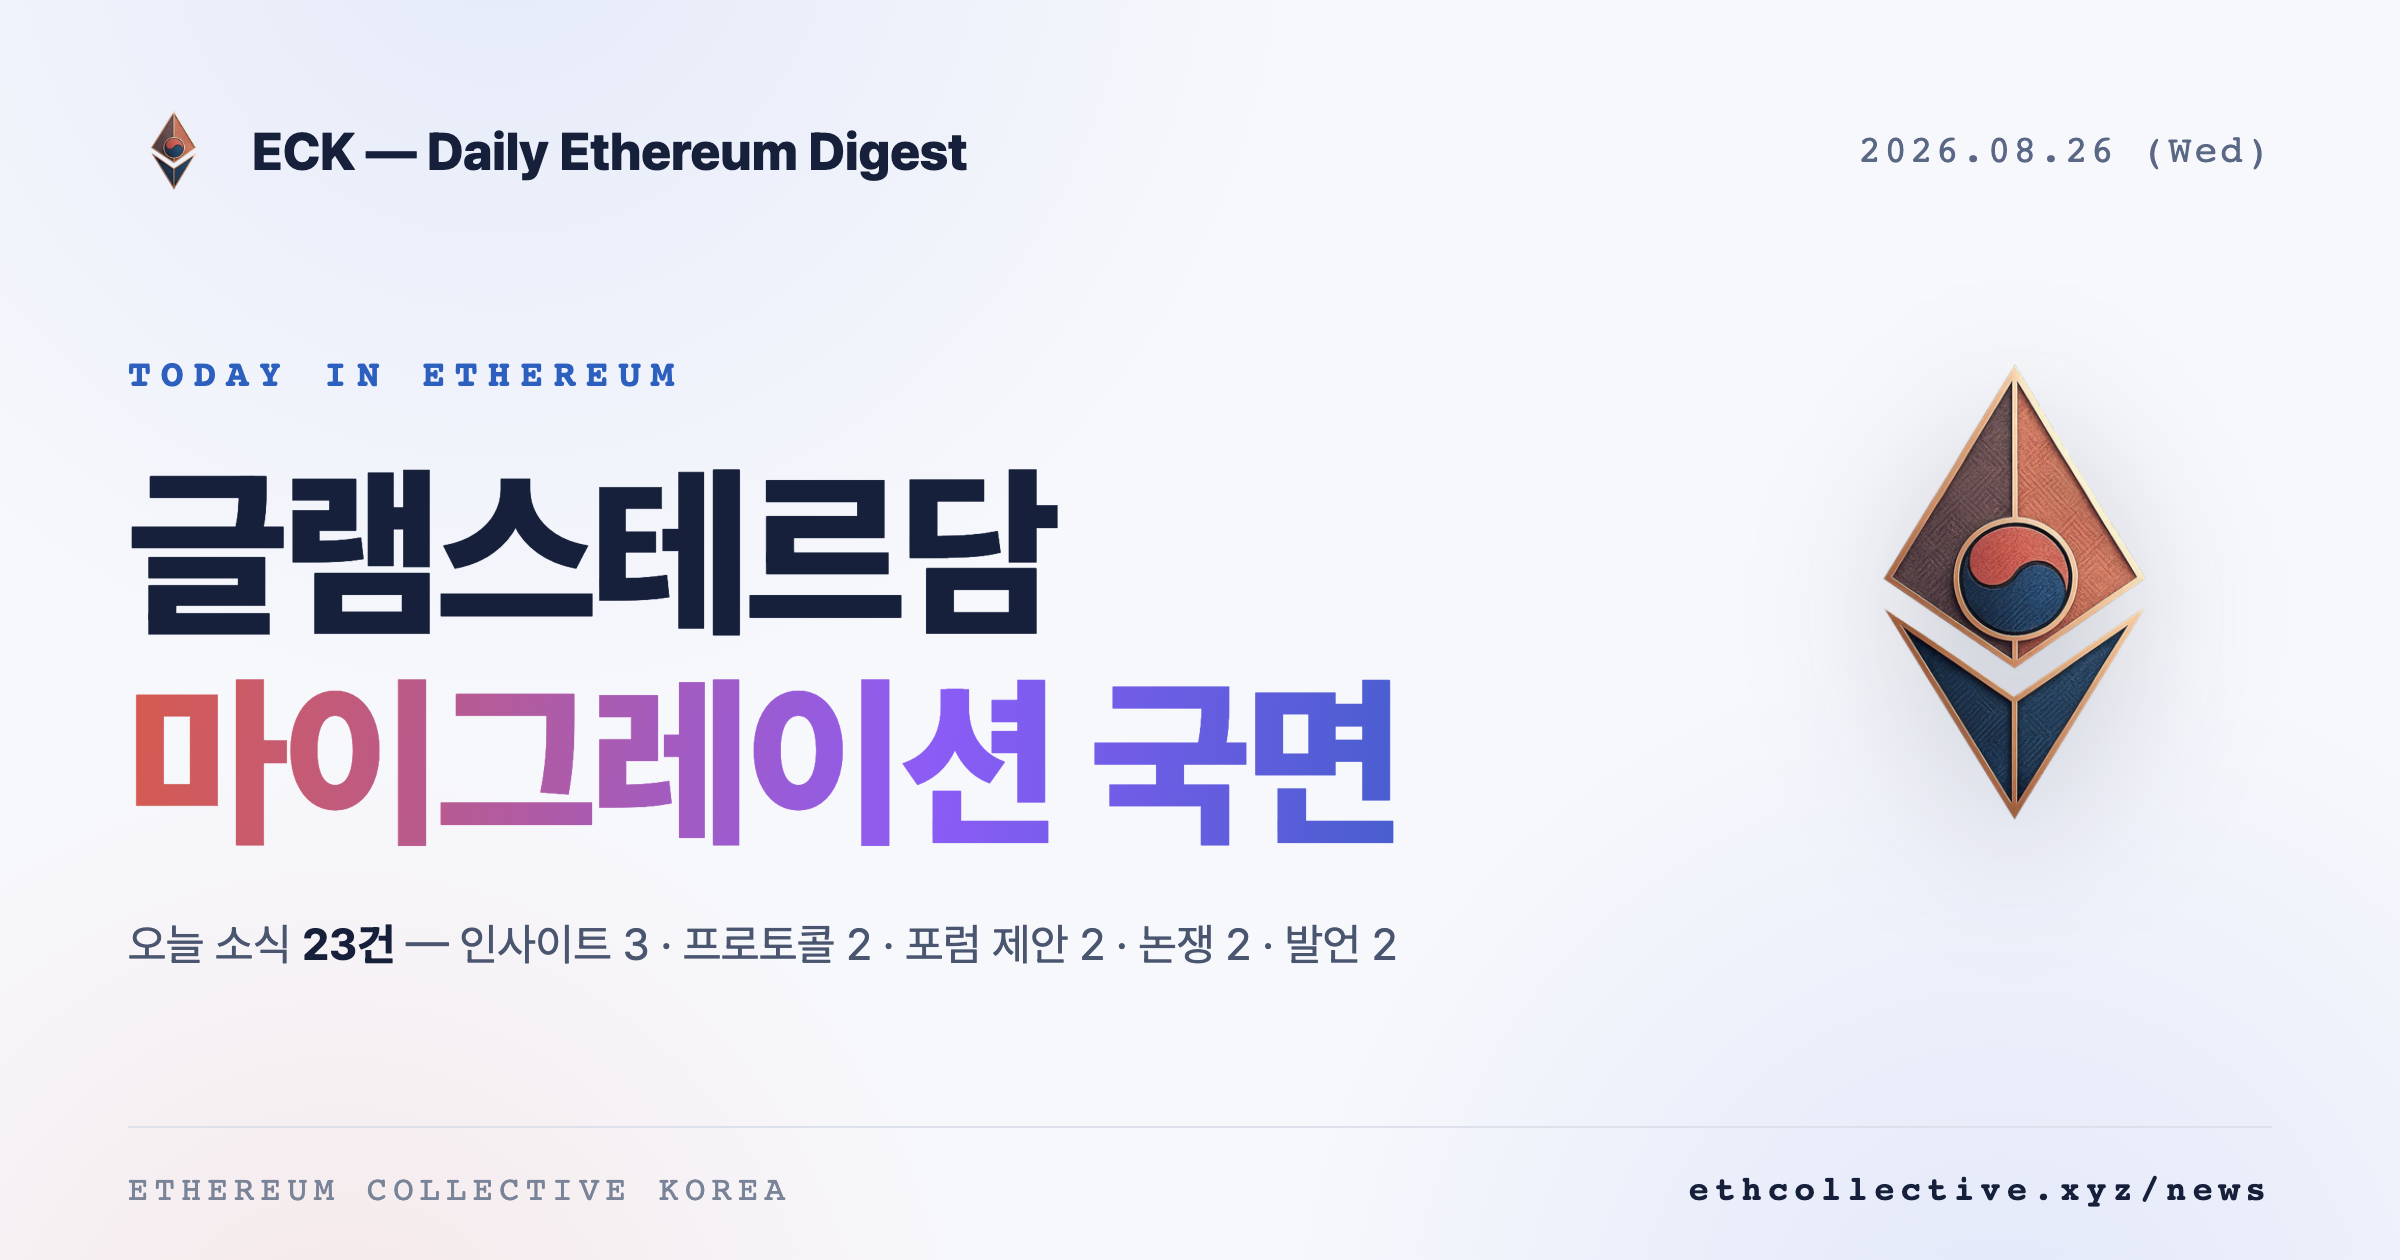
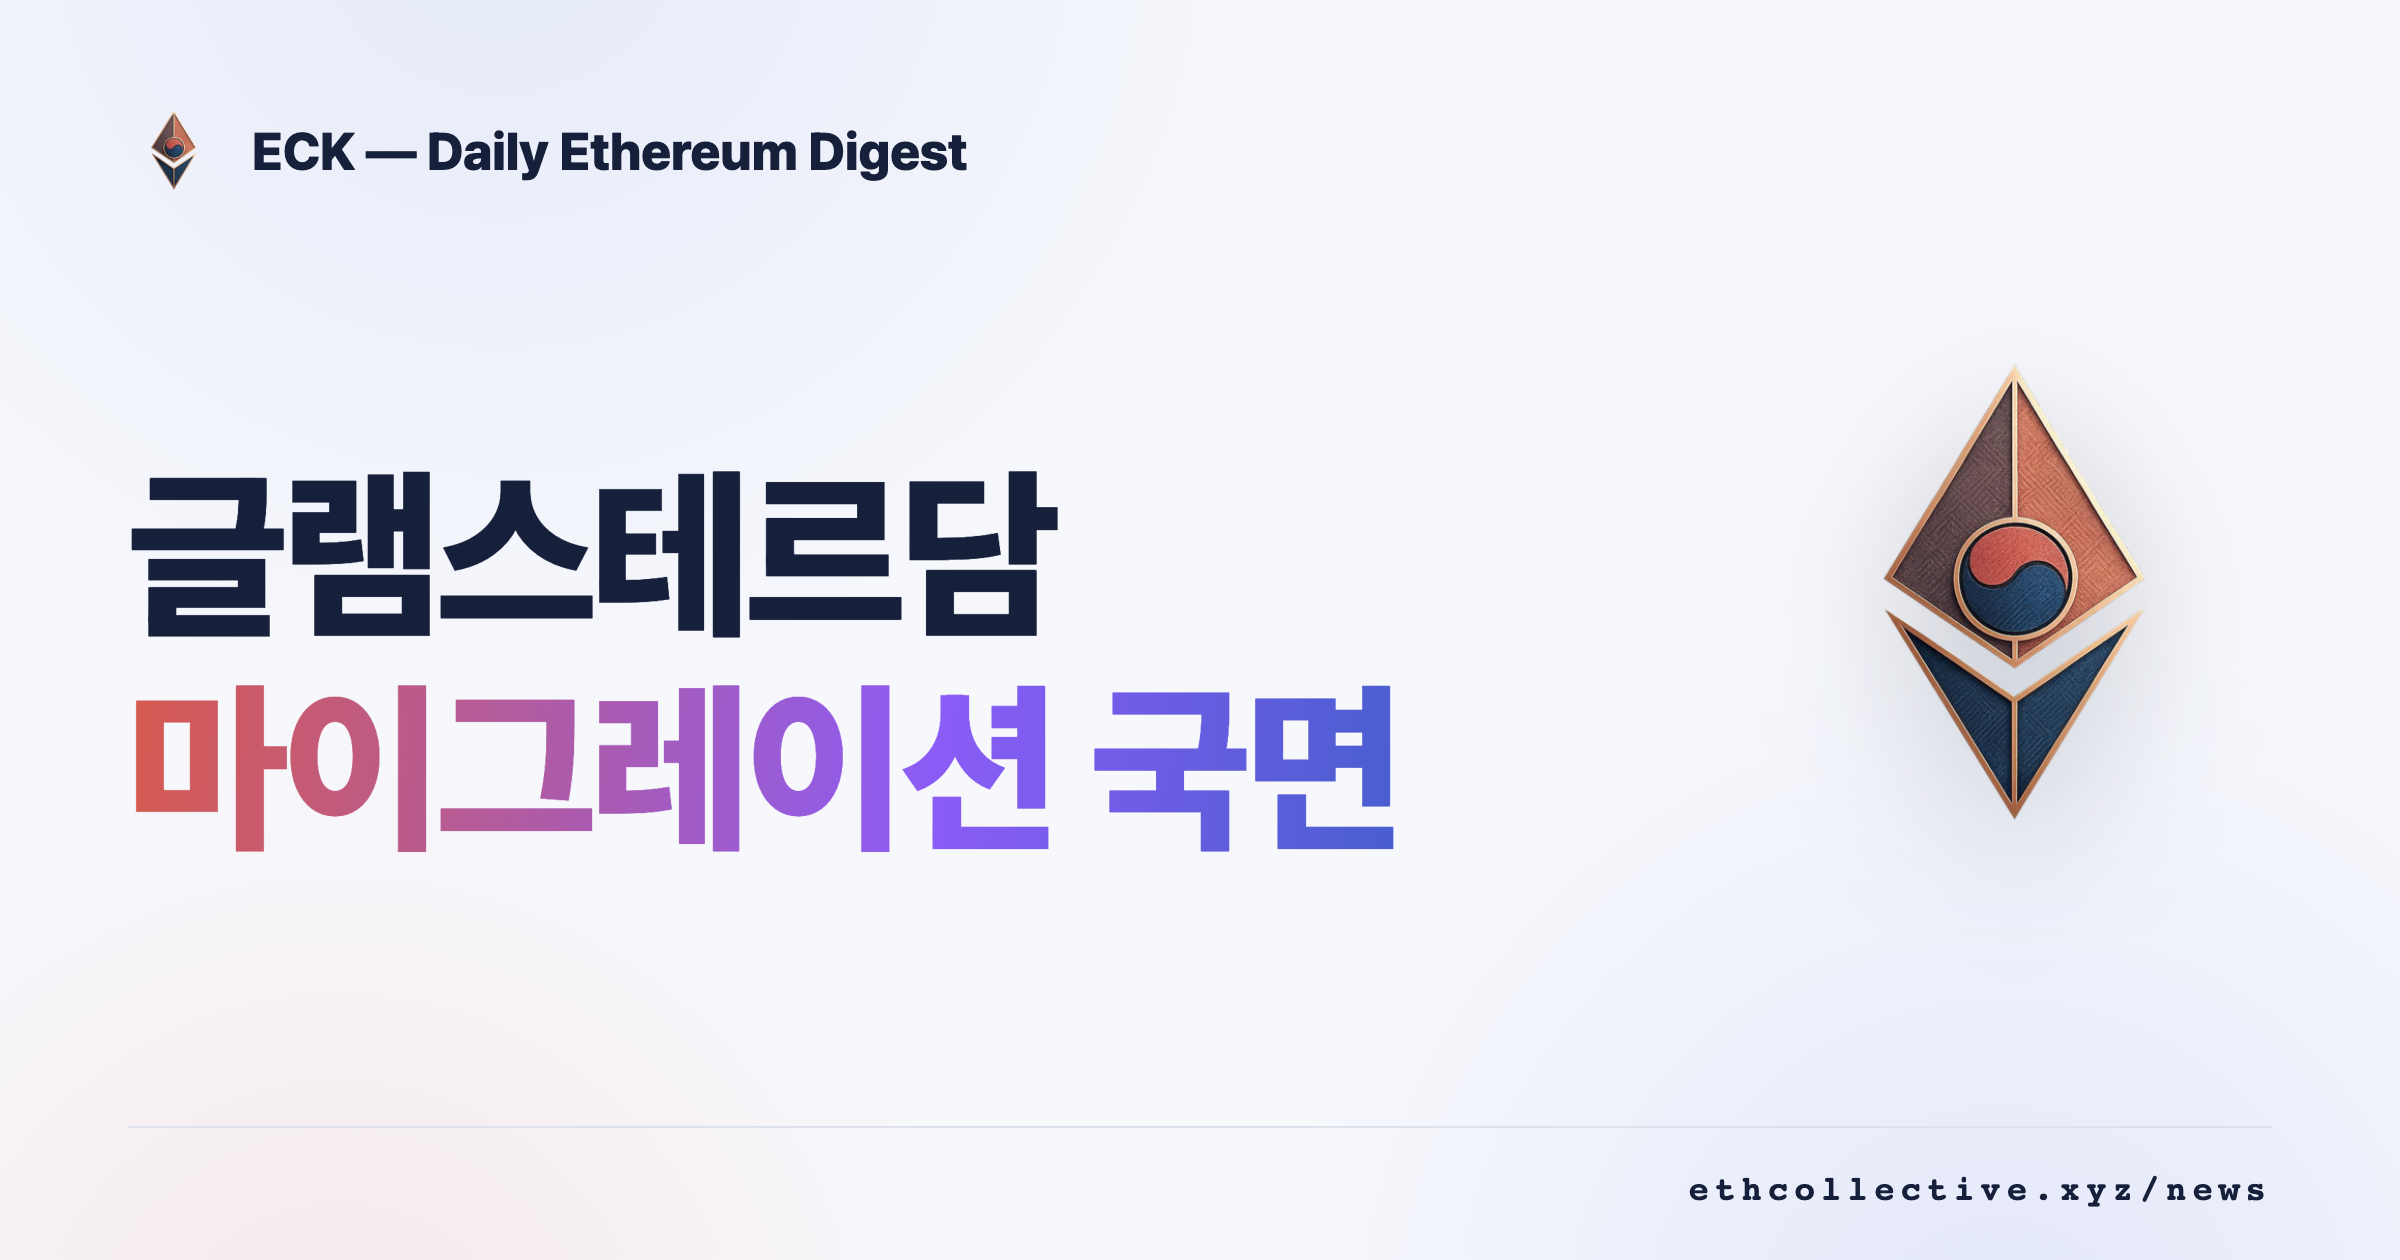
style: 커버 미니멀 정리 — 날짜·라벨·건수 라인·좌하단 워드마크 제거

diff --git a/scripts/render-digest-cover.ts b/scripts/render-digest-cover.ts
@@ -70,23 +70,6 @@ function coverHtml(digest: Digest, logoDataUri: string, fontDataUri: string): st
     }
   }
 
-  const totalCount = digest.sections.reduce((n, s) => n + s.items.length, 0);
-  const shortLabel = (heading: string) =>
-    heading
-      .replace(/^오늘의 /, '')
-      .replace(/^프로토콜 업데이트$/, '프로토콜')
-      .replace(/^트위터 논쟁.*$/, '논쟁')
-      .replace(/^주요 발언$/, '발언')
-      .replace(/^생태계 · 보안$/, '생태계')
-      .replace(/ · 담론$/, '');
-  const summary = digest.sections
-    .slice(0, 5)
-    .map((s) => `${shortLabel(s.heading)} ${s.items.length}`)
-    .join(' · ');
-
-  const isoDate = digest.date.replace(/-/g, '.');
-  const weekday = new Date(`${digest.date}T00:00:00`).toLocaleDateString('en-US', { weekday: 'short' });
-
   return `<!doctype html><html><head><meta charset="utf-8"><style>
     @font-face {
       font-family: 'Pretendard';
@@ -108,24 +91,20 @@ function coverHtml(digest: Digest, logoDataUri: string, fontDataUri: string): st
       background: radial-gradient(circle, rgba(100,130,230,.14) 0%, transparent 65%); }
     .mono { font-family: 'IBM Plex Mono', 'SF Mono', ui-monospace, monospace; }
     .wrap { position: relative; height: 100%; padding: 52px 64px 0; display: flex; flex-direction: column; }
-    .head { display: flex; align-items: center; justify-content: space-between; }
+    .head { display: flex; align-items: center; }
     .brand { display: flex; align-items: center; gap: 16px; }
     .brand img { width: 46px; height: 46px; }
     .brand span { font-size: 26px; font-weight: 800; letter-spacing: -.01em; }
-    .meta { font-size: 19px; letter-spacing: .08em; color: #5A6785; }
     /* 텍스트 존은 오른쪽 로고 존을 침범하지 않는다 */
-    .body { flex: 1; display: flex; flex-direction: column; justify-content: center; gap: 26px; padding-right: 340px; }
-    .label { font-size: 19px; font-weight: 700; letter-spacing: .26em; color: #2D5FBF; }
-    .title { font-size: 92px; font-weight: 850; line-height: 1.14; letter-spacing: -.025em; color: #16203B; }
+    .body { flex: 1; display: flex; flex-direction: column; justify-content: center; padding-right: 340px; }
+    .title { font-size: 92px; font-weight: 850; line-height: 1.16; letter-spacing: -.025em; color: #16203B; }
     .tline { white-space: nowrap; }
     .tline.accent { background: linear-gradient(95deg, #D65A4E 0%, #8B5CF6 55%, #2D5FBF 100%);
       -webkit-background-clip: text; -webkit-text-fill-color: transparent; }
-    .sub { font-size: 22px; color: #4A5570; white-space: nowrap; }
-    .sub b { color: #16203B; }
     .logo { position: absolute; right: 60px; top: 47%; transform: translateY(-50%); width: 265px;
       filter: drop-shadow(0 18px 36px rgba(22,32,59,.22)); }
     .foot { position: relative; margin-top: auto; border-top: 1px solid #DCE1EC; padding: 20px 0 26px;
-      display: flex; align-items: center; justify-content: space-between;
+      display: flex; align-items: center; justify-content: flex-end;
       font-size: 17px; letter-spacing: .18em; color: #7A8499; }
     .foot b { color: #16203B; }
   </style></head><body>
@@ -134,18 +113,14 @@ function coverHtml(digest: Digest, logoDataUri: string, fontDataUri: string): st
     <div class="wrap">
       <div class="head">
         <div class="brand"><img src="${logoDataUri}" alt="" /><span>ECK — Daily Ethereum Digest</span></div>
-        <div class="meta mono">${esc(isoDate)} (${esc(weekday)})</div>
       </div>
       <div class="body">
-        <div class="label mono">TODAY IN ETHEREUM</div>
         <div class="title">
           <div class="tline">${esc(line1)}</div>
           ${line2 ? `<div class="tline accent">${esc(line2)}</div>` : ''}
         </div>
-        <div class="sub">오늘 소식 <b>${totalCount}건</b> — ${esc(summary)}</div>
       </div>
       <div class="foot mono">
-        <span>ETHEREUM COLLECTIVE KOREA</span>
         <span><b>ethcollective.xyz/news</b></span>
       </div>
     </div>
